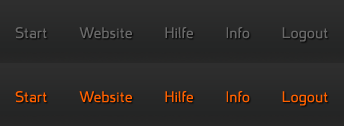
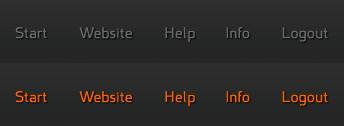
Moved the backend template's inline CSS in the stylesheet. Added empty help module.

Changed region(s): [[0.4942, 0.7143, 0.5814, 0.8571], [0.4942, 0.2143, 0.5814, 0.3333]]

diff --git a/public/backend.css b/public/backend.css
@@ -64,21 +64,11 @@ h1.page-title { }
  * Mainlayout
  */
 
-/* Sidebar Nav */
-.menuhead { cursor:pointer; color: #FFFFFF; display: block; height:51px; }      
-.selected {  }
-.submenu a, .submenu a:visited { position: absolute; left: 0px; top: 0px; width: 233px; height: 100%; color: #CCCCCC; z-index: 2 }
-.submenu a:hover, submenu a:active { color: #ff6100 }
-.submenu img { position: absolute; left: 28px; }
-.menu1 { position: relative; background-image:url(pics/backend/nav_item_top.png); text-indent: 60px; height: 46px; line-height: 54px; }
-.menu1 img { top: 20px }
-.menu2 { position: relative; background-image:url(pics/backend/nav_item_mid.png); text-indent: 60px; height: 38px; line-height: 38px; }   
-.menu2 img { top: 13px }
-.menu3 { position: relative; background-image:url(pics/backend/nav_item_bot.png); text-indent: 60px; height: 49px; line-height: 42px;  }  
-.menu3 img { top: 13px }
-.menubottom { background-image:url(pics/backend/menu_bottom.png); height: 17px }
-.applemenu { /*dont remove this class*/ }
-.applemenu div.submenu { /*DIV that contains each sub menu*/ /*dont remove this class*/ }
+body { background-image: url(theme/backend/background.png); background-color: white }
+
+#page-container { width: 986px; margin-left: auto; margin-right: auto }
+#header { position: relative; width: 100%; height: 219px; background-image:url(theme/backend/header.png) }
+#header-logo { position: absolute; background-image:url(theme/empty.png); width: 270px; height: 92px }
 
 /* Header Nav */
 .hnav { position: absolute; background-image:url(theme/backend/headernav.png); top: 0px; height: 63px }
@@ -94,5 +84,40 @@ h1.page-title { }
 #hnav5:hover { background-position: -265px -63px }
 .quicklink { position: absolute; background-image:url(theme/empty.png); top: 160px; width: 13px; height: 19px }
 
-#infobox a, #infobox a:visited { color: inherit; text-decoration: none; font-weight: normal; }
-#infobox a:hover, #infobox a:active { color: inherit; text-decoration: none; font-weight: normal; }
+#user-img { position: absolute; display: block; left: 6px; top: 112px; width: 45px; height: 60px }
+#user-img-overlay { position: absolute; display: block; left: 6px; top: 112px; z-index: 2 }
+#profile-link { position: absolute; display: block; background-image: url(theme/empty.png); left: 6px; top: 112px; width: 45px; height: 60px; z-index: 3 }
+#info-box { position: absolute; display: block; left: 72px; top: 120px; width: 180px; height: 50px; overflow: hidden; color: white; text-shadow: #404040 0px 1px 1px }
+#info-box span { display: block; margin-bottom: 10px }
+#info-bar { position: absolute; display: block; left: 670px; top: 95px; width: 230px; color: white; font-size: 11px; text-align: center }
+#tecslink { position: absolute; background-image:url(theme/empty.png); left: 931px; top: 92px; width: 15px; height: 20px }
+
+#content-wrapper { width: 100%; min-height: 785px; padding-bottom: 100px; background-image:url(theme/backend/contentbg.png); }
+#sidebar { float: left; width: 237px; padding: 0px 15px 0px 20px }
+
+/* Sidebar Nav */
+.menuhead { display: block; height: 51px; color: #FFFFFF; cursor: pointer; }
+.menuhead.daily { background-image: url(theme/backend/nav_header_daily.png) }
+.menuhead.perma { background-image: url(theme/backend/nav_header_perma.png) }
+.menuhead.esports { background-image: url(theme/backend/nav_header_esport.png) }
+.menuhead.website { background-image: url(theme/backend/nav_header_website.png) }
+.selected {  }
+.submenu a, .submenu a:visited { position: absolute; left: 0px; top: 0px; width: 233px; height: 100%; color: #CCCCCC; z-index: 2 }
+.submenu a:hover, submenu a:active { color: #ff6100 }
+.submenu img { position: absolute; left: 28px; }
+.menu1 { position: relative; background-image: url(theme/backend/nav_item_top.png); text-indent: 60px; height: 46px; line-height: 54px; }
+.menu1 img { top: 20px }
+.menu2 { position: relative; background-image: url(theme/backend/nav_item_mid.png); text-indent: 60px; height: 38px; line-height: 38px; }   
+.menu2 img { top: 13px }
+.menu3 { position: relative; background-image: url(theme/backend/nav_item_bot.png); text-indent: 60px; height: 49px; line-height: 42px;  }  
+.menu3 img { top: 13px }
+.menubottom { background-image: url(theme/backend/menu_bottom.png); height: 17px }
+.applemenu { /*dont remove this class*/ }
+.applemenu div.submenu { /*DIV that contains each sub menu*/ /*dont remove this class*/ }
+
+#page { width: 686px; margin-left: 275px; }
+
+#footer { position: relative; width: 982px; height: 76px; margin-left: 2px; background-image: url(theme/backend/footer.png); }
+#footer a { display: block; position: absolute; background-image: url(theme/empty.png); left: 114px; top: 30px; width: 45px; height: 35px }
+
+

diff --git a/app/views/backend.blade.php b/app/views/backend.blade.php
@@ -30,27 +30,27 @@
 	</script>
 	<script type="text/javascript" src="{{ asset('libs/backend.js') }}"></script>
 </head>
-<body style="background-image: url('theme/backend/background.png'); background-color: white">
-	<section id="pagecontainer" style="width: 986px; margin-left: auto; margin-right: auto">
+<body>
+	<section id="page-container">
 	    <noscript><div id="nojavascript"><img src="icos/exclamation.png" width="16" height="16" alt="icon" /> JavaScript not enabled. Please enable JavaScript!</div></noscript>
-		<header style="position: relative; width: 100%; height: 219px; background-image:url(theme/backend/header.png)">
-        	<a id="headerlogo" href="{{ route('admin.dashboard') }}" title="Admin-Dashboard" style="position: absolute; background-image:url('theme/empty.png'); width: 270px; height: 92px"><!-- empty --></a>
+		<header id="header">
+        	<a id="header-logo" href="{{ route('admin.dashboard') }}" title="Admin-Dashboard"><!-- empty --></a>
             
             <a id="hnav1" class="hnav" href="{{ route('admin.dashboard') }}"><!-- empty --></a>
             <a id="hnav2" class="hnav" href="{{ route('home') }}"><!-- empty --></a>
-            <a id="hnav3" class="hnav" href="admin.php?site=help"><!-- empty --></a>
-            <a id="hnav4" class="hnav" href="admin.php?site=help&amp;action=info"><!-- empty --></a>
+            <a id="hnav3" class="hnav" href="{{ url('admin/help') }}"><!-- empty --></a>
+            <a id="hnav4" class="hnav" href="{{ url('admin/help/info') }}"><!-- empty --></a>
             <a id="hnav5" class="hnav" href="{{ route('logout') }}"><!-- empty --></a>
         
-			<img src="{..$profilepic..}" alt="profileimage" style="position: absolute; display: block; left: 6px; top: 112px; width: 45px; height: 60px" />
-            <img src="theme/backend/photo.png" width="45" height="60" alt="photooverlay" style="position: absolute; display: block; left: 6px; top: 112px; z-index: 2" />
-			<a href="profile/{..$userid..}/" title="Show your profile" style="position: absolute; display: block; background-image:url('theme/empty.png'); left: 6px; top: 112px; width: 45px; height: 60px; z-index: 3"><!-- empty--></a>
+			<img id="user-img" src="{..$profilepic..}" alt="User" />
+            <img id="user-img-overlay" src="theme/backend/photo.png" width="45" height="60" alt="Overlay" />
+			<a id="profile-link" href="profile/{..$userid..}/" title="Show your profile"><!-- empty--></a>
             
-            <div id="infobox" style="position: absolute; display: block; left: 72px; top: 120px; width: 180px; height: 50px; overflow: hidden; color: white; text-shadow: #404040 0px 1px 1px"><span style="display: block; margin-bottom: 10px">Welcome, {..$nickname..}!</span>{..$messagecode..}</div>
+            <div id="info-box"><span>Welcome, {..$nickname..}!</span>{..$messagecode..}</div>
             
-			<div style="position: absolute; display: block; left: 670px; top: 95px; width: 230px; color: white; font-size: 11px; text-align: center"><span id="datetime">{{ date('d/m/Y') }} – {{ date('H:i') }}</span> now. Version {{ Config::get('app.version') }}</div>
+			<div id="info-bar"><span id="datetime">{{ date('d/m/Y') }} – {{ date('H:i') }}</span> now. Version {{ Config::get('app.version') }}</div>
             
-            <a id="tecslink" href="admin.php?site=help&amp;action=technologies" title="Show infos about the technologies used" style="position: absolute; background-image:url('theme/empty.png'); left: 931px; top: 92px; width: 15px; height: 20px"><!-- empty --></a>
+            <a id="tecslink" href="{{ url('admin/help/technologies') }}" title="Show infos about the technologies used"><!-- empty --></a>
             
             <a id="quicklink1" class="quicklink" href="editprofile/{..$userid..}/" title="Edit your Profile" style="left: 669px"><!-- empty --></a>
             <a id="quicklink2" class="quicklink" href="admin.php?site=help" title="Help" style="left: 689px"><!-- empty --></a>
@@ -66,11 +66,11 @@
             <a id="quicklink10" class="quicklink" href="admin.php?site=members" title="Members" style="left: 871px"><!-- empty --></a>
             <a id="quicklink11" class="quicklink" href="admin.php?site=settings" title="Settings" style="left: 891px"><!-- empty --></a>
         </header>
-        <section id="contentwrapper" style="background-image:url('theme/backend/contentbg.png'); width: 100%; min-height: 785px; padding-bottom: 100px">
-        	<aside id="sidebar" style="float: left; width: 237px; padding: 0px 15px 0px 20px">
+        <section id="content-wrapper">
+        	<aside id="sidebar">
             	<nav>
 					<div class="applemenu">
-						<div class="silverheader"><div class="menuhead" style="background-image:url('theme/backend/nav_header_daily.png')"><span class="hidden">Daily Content</span></div></div>
+						<div class="silverheader"><div class="menuhead daily"><span class="hidden">Daily Content</span></div></div>
 							<div class="submenu">
 								<div class="menu1"><img src="icos/house.png" width="16" height="16" alt="icon" /><a href="admin.php?site=dashboard">Startseite</a></div>
                                 
@@ -85,7 +85,7 @@
 								<div class="menu3"><img src="icos/photo.png" width="16" height="16" alt="icon" /><a href="admin.php?site=galleries">Galleries</a></div>
 							</div>
 							<div class="menubottom"><!-- empty --></div>
-						<div class="silverheader"><div class="menuhead" style="background-image:url('theme/backend/nav_header_perma.png')"><span class="hidden">Permanent Content</span></div></div>
+						<div class="silverheader"><div class="menuhead perma"><span class="hidden">Permanent Content</span></div></div>
 							<div class="submenu">
 								<div class="menu1"><img src="icos/newspaper.png" width="16" height="16" alt="icon" /><a href="admin.php?site=newscats">News-Categories</a></div>
 								<div class="menu2"><img src="icos/color_swatch.png" width="16" height="16" alt="icon" /><a href="admin.php?site=coverages">Coverages</a></div>	
@@ -100,7 +100,7 @@
 								<div class="menu2"><img src="icos/comment.png" width="16" height="16" alt="icon" /><a href="admin.php?site=forumboards">Forum-Boards</a></div>
 							</div>
 							<div class="menubottom"><!-- empty --></div>
-						<div class="silverheader"><div class="menuhead" style="background-image:url('theme/backend/nav_header_esport.png')"><span class="hidden">eSport Content</span></div></div>
+						<div class="silverheader"><div class="menuhead esports"><span class="hidden">eSports Content</span></div></div>
 							<div class="submenu">				
 								<div class="menu1"><img src="icos/sport_soccer.png" width="16" height="16" alt="icon" /><a href="admin.php?site=matches">Matches</a></div>
 								<div class="menu2"><img src="icos/award_star_gold_3.png" width="16" height="16" alt="icon" /><a href="admin.php?site=awards">Awards</a></div>				
@@ -113,7 +113,7 @@
 							</div>
 							<div class="menubottom"><!-- empty --></div>
 							
-						<div class="silverheader"><div class="menuhead" style="background-image:url('theme/backend/nav_header_website.png')"><span class="hidden">Website</span></div></div>
+						<div class="silverheader"><div class="menuhead website"><span class="hidden">Website</span></div></div>
 							<div class="submenu">
 								<div class="menu1"><img src="icos/user.png" width="16" height="16" alt="icon" /><a href="admin.php?site=users">Users</a></div>
 								<div class="menu2"><img src="icos/group.png" width="16" height="16" alt="icon" /><a href="admin.php?site=members">Members</a></div>
@@ -130,14 +130,14 @@
                 </nav>
             </aside>
 
-            <section id="page" style="width: 686px; margin-left: 275px;">
+            <section id="page">
 					@if (isset($page))
 						{{ $page }}
 					@endif
 			</section>
         </section>
-        <footer style="position: relative; background-image:url('theme/backend/footer.png'); width: 982px; height: 76px; margin-left: 2px">
-        	<a href="#" title="Top" style="display: block; position: absolute; background-image:url('theme/empty.png'); left: 114px; top: 30px; width: 45px; height: 35px"><!-- empty --></a>
+        <footer id="footer">
+        	<a href="#" title="Top"><!-- empty --></a>
         </footer>
     </section>
 </body>

diff --git a/app/modules/help/controllers/AdminHelpController.php b/app/modules/help/controllers/AdminHelpController.php
@@ -1,0 +1,20 @@
+<?php namespace App\Modules\Help\Controllers;
+
+class AdminHelpController extends \BackController {
+
+    public function getIndex()
+    {
+        $this->pageView('help::index');
+    }
+
+    public function getTechnologies()
+    {
+        $this->pageView('help::technologies');
+    }
+
+    public function getInfo()
+    {
+        $this->pageView('help::info');
+    }
+
+}

diff --git a/app/modules/help/routes.php b/app/modules/help/routes.php
@@ -1,0 +1,5 @@
+<?php
+
+ModuleRoute::context(__DIR__);
+
+ModuleRoute::controller('admin/help', 'AdminHelpController');

diff --git a/app/modules/help/views/index.blade.php b/app/modules/help/views/index.blade.php
@@ -1,0 +1,1 @@
+admin.help.index

diff --git a/app/modules/help/views/info.blade.php b/app/modules/help/views/info.blade.php
@@ -1,0 +1,1 @@
+admin.help.info

diff --git a/app/modules/help/views/technologies.blade.php b/app/modules/help/views/technologies.blade.php
@@ -1,0 +1,1 @@
+admin.help.tecs
